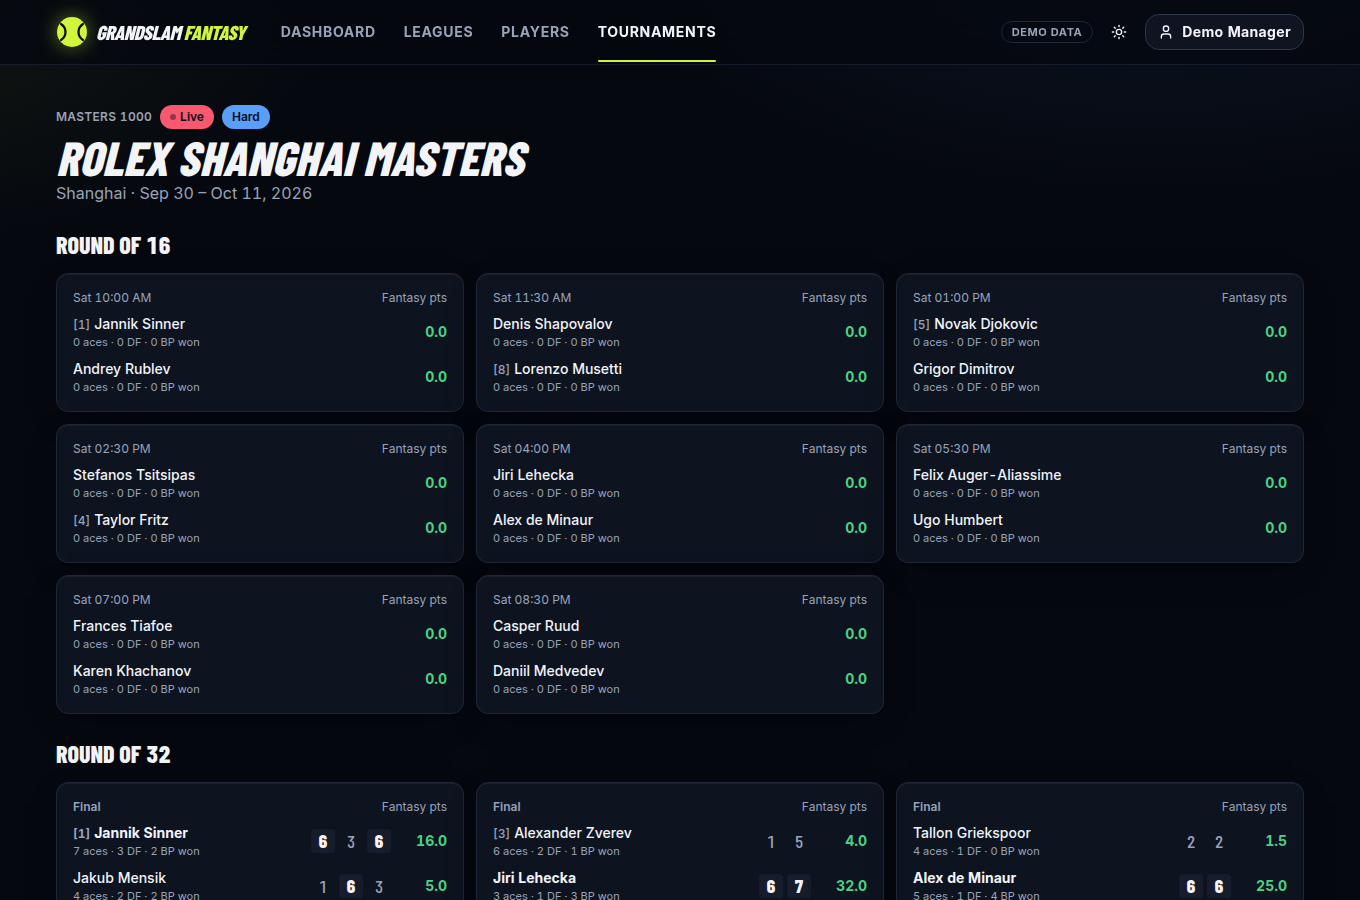
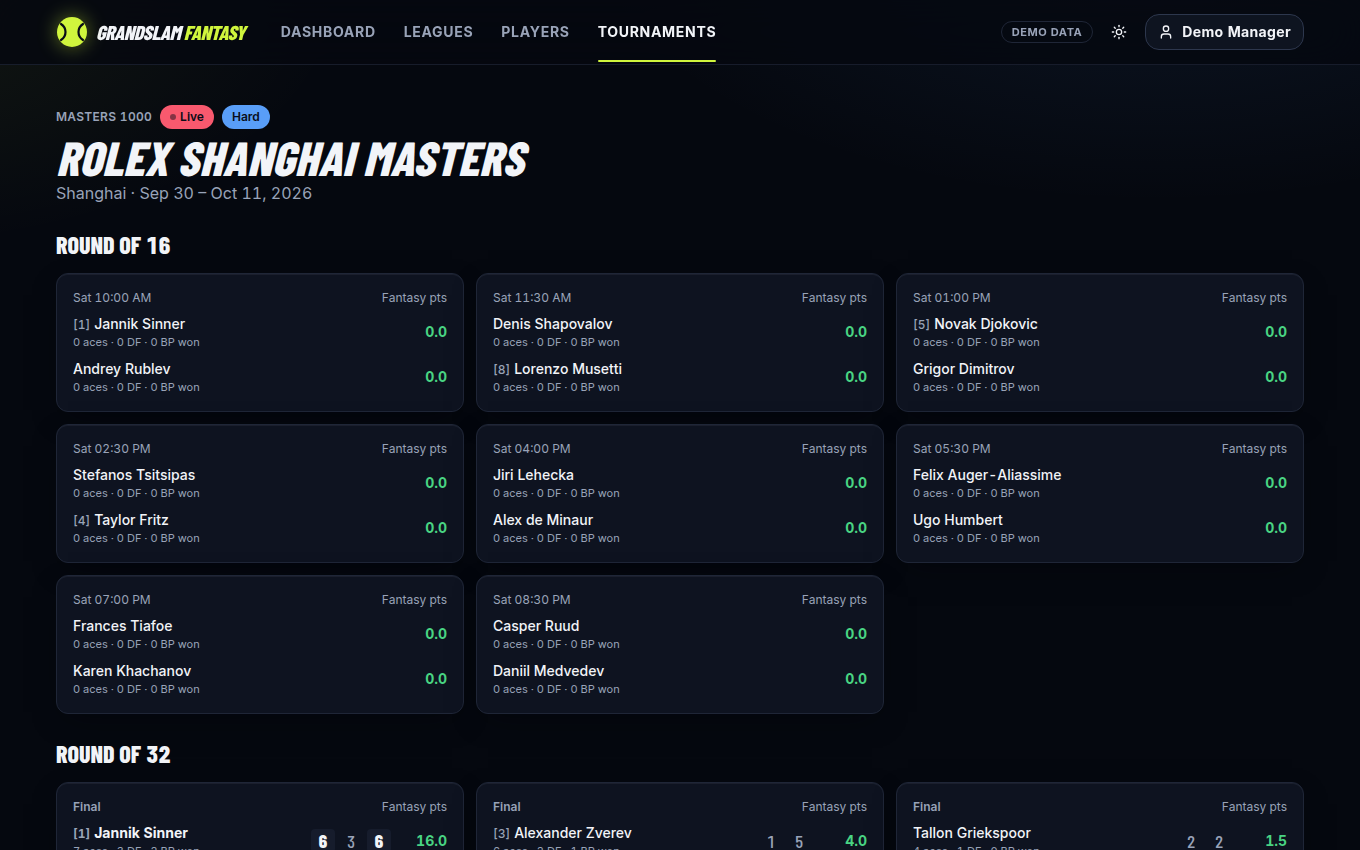
docs: even 2x2 screenshot grid in README
Re-captures the four README screenshots at one size (1360x850) and lays
them out in an equal-width grid. Drops the mobile screenshots.

Claude-Session: https://claude.ai/code/session_01WxVCGfPktk5fhog6bUCvKf

diff --git a/README.md b/README.md
@@ -72,17 +72,16 @@ Running stats (aces, double faults, breaks) score while a match is in progress s
 
 ## Screens
 
-| Lineup builder on the court | Live head-to-head league |
-| --- | --- |
-| ![Lineup](docs/screenshots/roster.png) | ![League](docs/screenshots/h2h.png) |
-
-| Dashboard | Live scores |
-| --- | --- |
-| ![Dashboard](docs/screenshots/dashboard.png) | ![Live scores](docs/screenshots/tournament-live.png) |
-
-| Mobile lineup | Mobile league |
-| --- | --- |
-| <img src="docs/screenshots/mobile-roster.png" width="300" alt="Mobile lineup"> | <img src="docs/screenshots/mobile-league.png" width="300" alt="Mobile league"> |
+<table>
+  <tr>
+    <td width="50%" align="center"><b>Lineup builder on the court</b><br><img src="docs/screenshots/roster.png" width="100%" alt="Lineup builder on the court"></td>
+    <td width="50%" align="center"><b>Live head-to-head league</b><br><img src="docs/screenshots/h2h.png" width="100%" alt="Live head-to-head league"></td>
+  </tr>
+  <tr>
+    <td width="50%" align="center"><b>Dashboard</b><br><img src="docs/screenshots/dashboard.png" width="100%" alt="Dashboard"></td>
+    <td width="50%" align="center"><b>Live scores</b><br><img src="docs/screenshots/tournament-live.png" width="100%" alt="Live scores"></td>
+  </tr>
+</table>
 
 - **Landing**: hero, live tournaments, how it works, scoring.
 - **Dashboard**: stat tiles, next lineup deadline with countdown, league cards with rank and points, live and upcoming events.
